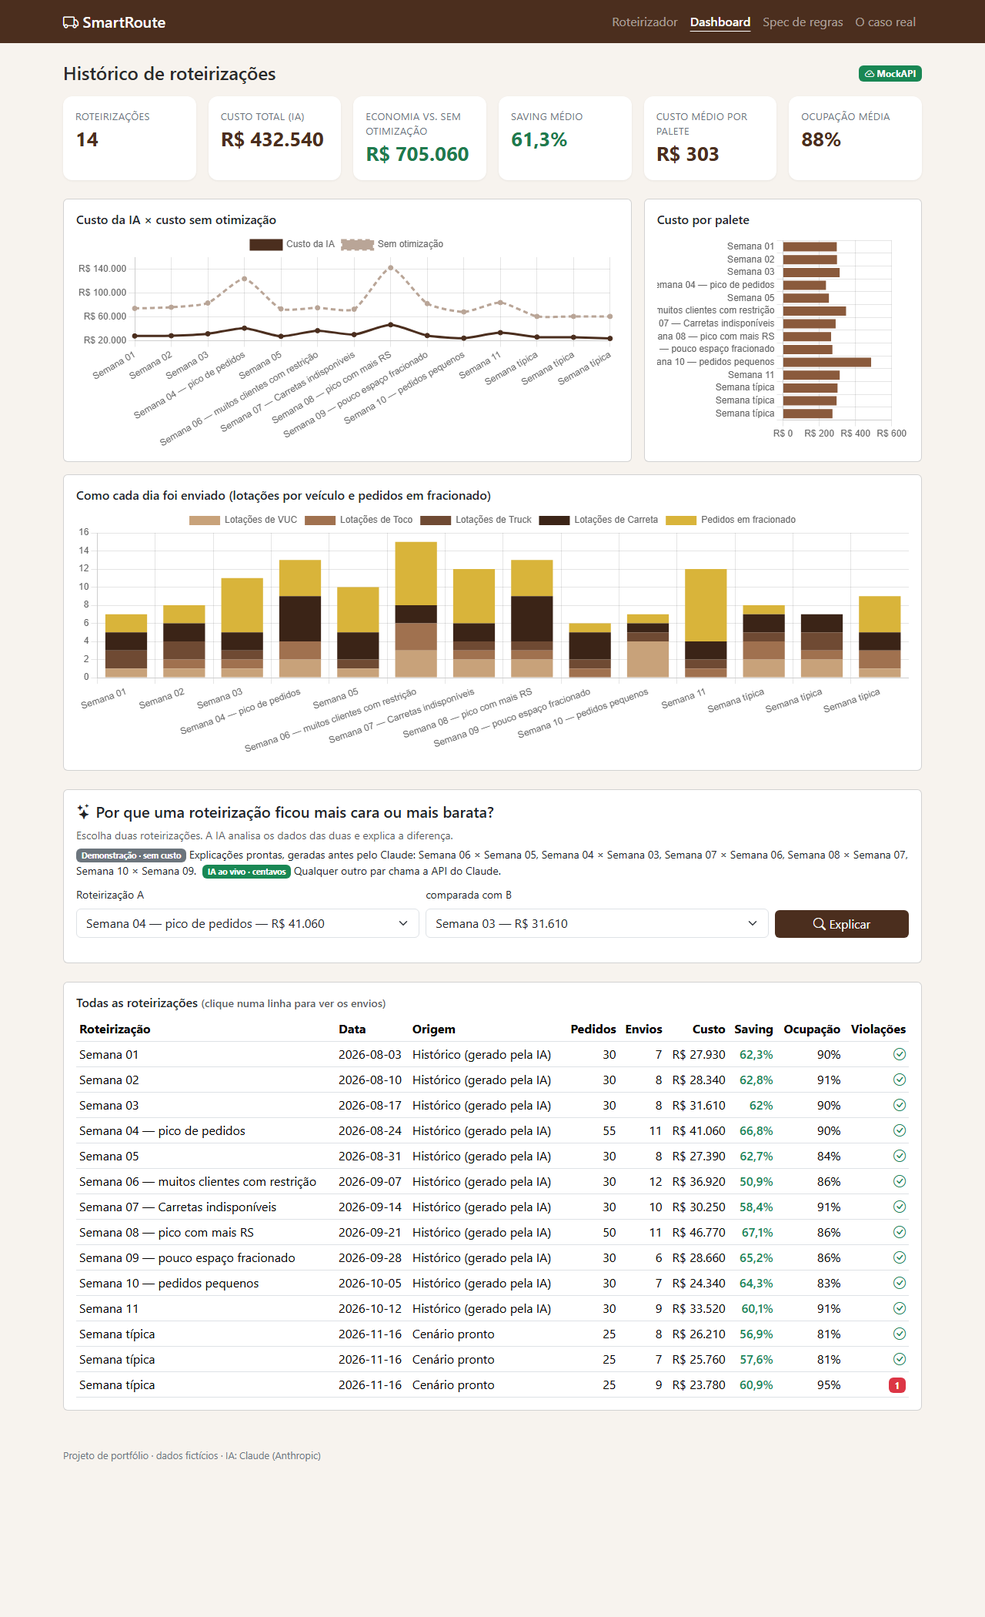
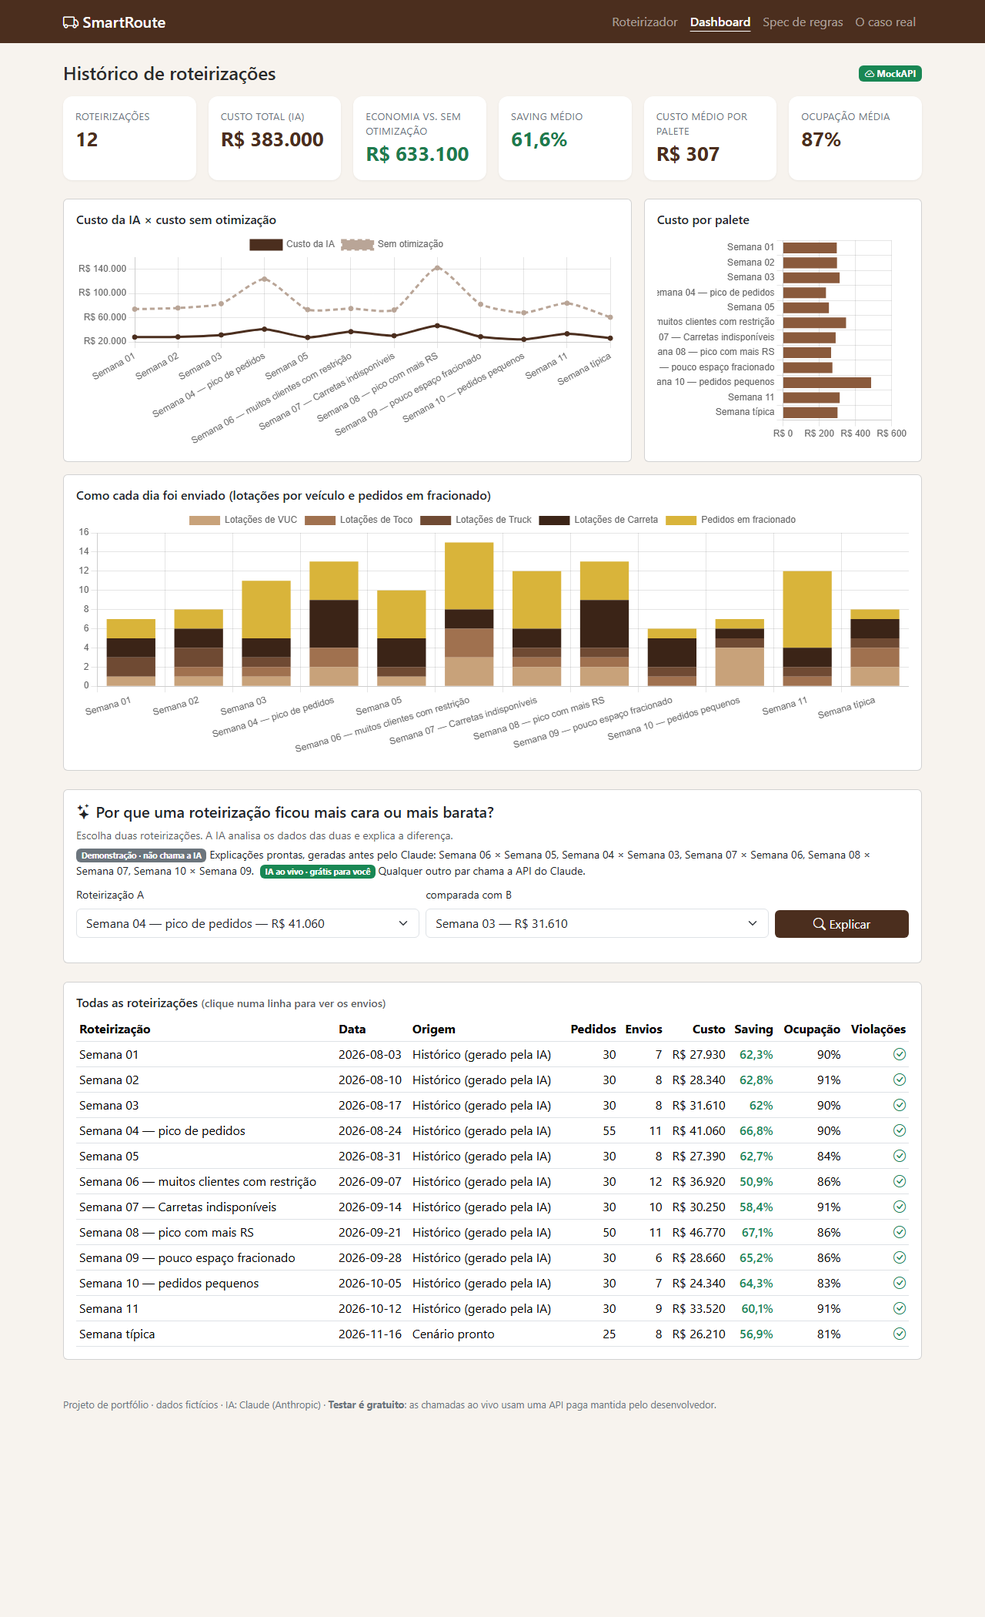
docs: deixar claro que testar é gratuito; a API paga do Claude é mantida pelo desenvolvedor

diff --git a/public/index.html b/public/index.html
@@ -34,17 +34,18 @@
 
     <div class="row g-3 mb-4">
       <div class="col-md-6"><div class="modo-card demo h-100">
-        <div class="fw-semibold"><i class="bi bi-collection-play"></i> Cenários prontos — demonstração gratuita</div>
-        <div class="small">Mostram resultados que o Claude gerou anteriormente. <strong>Não chamam a API do Claude e não gastam créditos.</strong> Resposta instantânea.</div>
+        <div class="fw-semibold"><i class="bi bi-collection-play"></i> Cenários prontos — demonstração</div>
+        <div class="small">Mostram resultados que o Claude gerou anteriormente. <strong>Não chamam a API do Claude.</strong> Resposta instantânea.</div>
       </div></div>
       <div class="col-md-6"><div class="modo-card ao-vivo h-100">
         <div class="fw-semibold"><i class="bi bi-broadcast"></i> Seu CSV — IA ao vivo</div>
-        <div class="small">Faz uma <strong>chamada real à API do Claude</strong> (custa alguns centavos), gera um resultado novo e o salva no histórico do dashboard.</div>
+        <div class="small">Faz uma <strong>chamada real à API do Claude</strong>, gera um resultado novo e o salva no histórico do dashboard.</div>
       </div></div>
+      <div class="col-12"><div class="small text-muted"><i class="bi bi-gift"></i> <strong>Usar o SmartRoute é sempre gratuito para quem está testando</strong>, nos dois modos. As chamadas ao vivo usam uma API do Claude paga, mantida pelo desenvolvedor para deixar o projeto ativo; por isso existe um limite de uso por visitante.</div></div>
     </div>
 
     <h2 class="h5">1. Escolha os pedidos do dia</h2>
-    <h3 class="h6 text-muted"><span class="badge text-bg-secondary">Demonstração · sem custo</span> Cenários prontos</h3>
+    <h3 class="h6 text-muted"><span class="badge text-bg-secondary">Demonstração · não chama a IA</span> Cenários prontos</h3>
     <div class="row g-3 mb-3" id="cenarios">
       <div class="col-md-4"><div class="card card-cenario h-100" data-cenario="cenario-1"><div class="card-body">
         <h3 class="h6"><i class="bi bi-calendar-week"></i> Semana típica</h3>
@@ -61,7 +62,7 @@
     </div>
 
     <div class="card mb-4"><div class="card-body">
-      <label for="arquivo" class="form-label fw-semibold"><span class="badge text-bg-success">IA ao vivo · alguns centavos</span>
+      <label for="arquivo" class="form-label fw-semibold"><span class="badge text-bg-success">IA ao vivo · grátis para você</span>
         <i class="bi bi-filetype-csv"></i> …ou envie seu próprio CSV (até 60 pedidos)</label>
       <div class="d-flex flex-wrap gap-2 align-items-center">
         <input class="form-control w-auto" type="file" id="arquivo" accept=".csv,text/csv">
@@ -81,7 +82,7 @@
     <section id="resultado" class="d-none"></section>
   </main>
 
-  <footer class="container pb-4">Projeto de portfólio · dados fictícios · IA: Claude (Anthropic)</footer>
+  <footer class="container pb-4">Projeto de portfólio · dados fictícios · IA: Claude (Anthropic) · <strong>Testar é gratuito</strong>: as chamadas ao vivo usam uma API paga mantida pelo desenvolvedor.</footer>
   <script src="https://cdn.jsdelivr.net/npm/bootstrap@5.3.3/dist/js/bootstrap.bundle.min.js"></script>
   <script type="module" src="/js/app.js"></script>
 </body>

diff --git a/public/js/app.js b/public/js/app.js
@@ -15,12 +15,12 @@ function selecionarCenario(card) {
   document.getElementById("csv-erros").innerHTML = "";
   document.getElementById("csv-previa").innerHTML = "";
   btn.disabled = false;
-  status.innerHTML = `<strong>${esc(card.querySelector("h3").textContent.trim())}</strong> · demonstração: mostra o resultado gerado antes pelo Claude, <strong>sem chamar a API e sem custo</strong>.`;
+  status.innerHTML = `<strong>${esc(card.querySelector("h3").textContent.trim())}</strong> · demonstração: mostra o resultado gerado antes pelo Claude, <strong>sem chamar a API</strong>.`;
 }
 
 document.querySelectorAll(".card-cenario").forEach((card) => card.addEventListener("click", () => selecionarCenario(card)));
 
-// Link direto para um cenário: /?cenario=cenario-1 já mostra o resultado de demonstração (sem custo).
+// Link direto para um cenário: /?cenario=cenario-1 já mostra o resultado de demonstração (não chama a IA).
 const cenarioDaUrl = new URLSearchParams(location.search).get("cenario");
 const cardDaUrl = document.querySelector(`.card-cenario[data-cenario="${CSS.escape(cenarioDaUrl ?? "")}"]`);
 if (cardDaUrl) {
@@ -49,7 +49,7 @@ document.getElementById("arquivo").addEventListener("change", async (ev) => {
 
   entrada = erros.length || !pedidos.length ? null : { pedidos, rotulo: arquivo.name.replace(/\.csv$/i, "") };
   btn.disabled = !entrada;
-  status.innerHTML = entrada ? `<strong>${esc(arquivo.name)}</strong> · IA ao vivo: ao clicar, <strong>chama a API do Claude</strong> (alguns centavos) e salva no histórico.` : "O CSV tem erros.";
+  status.innerHTML = entrada ? `<strong>${esc(arquivo.name)}</strong> · IA ao vivo: ao clicar, <strong>chama a API do Claude</strong> e salva no histórico. Gratuito para você.` : "O CSV tem erros.";
 });
 
 btn.addEventListener("click", async () => {
@@ -83,7 +83,7 @@ btn.addEventListener("click", async () => {
 function mostrarResultado({ modo, registro: r, salvo, aviso }) {
   const selo = modo === "ao_vivo"
     ? `<span class="badge text-bg-success selo"><i class="bi bi-broadcast"></i> IA ao vivo · chamada real ao Claude</span>`
-    : `<span class="badge text-bg-secondary selo"><i class="bi bi-collection-play"></i> Demonstração · resultado gerado antes pelo Claude · sem custo</span>`;
+    : `<span class="badge text-bg-secondary selo"><i class="bi bi-collection-play"></i> Demonstração · resultado gerado antes pelo Claude</span>`;
   const avisos = [
     aviso ? `<div class="alert alert-info py-2 small mb-2">${esc(aviso)}</div>` : "",
     modo === "ao_vivo" && !salvo ? `<div class="alert alert-warning py-2 small mb-2">O histórico está indisponível: esta roteirização não foi salva no dashboard.</div>` : "",

diff --git a/public/caso.html b/public/caso.html
@@ -66,7 +66,7 @@
         <li>Reproduz a <strong>forma de trabalhar</strong> do agente: uma <a href="/spec.html">spec de regras</a> guia a IA (Claude), que compara transportadoras, veículos e modalidades.</li>
         <li>Acrescenta um <strong>validador em código</strong> que confere cada regra depois da resposta da IA, porque a IA não deve ser aceita sem verificação.</li>
         <li>Guarda cada roteirização num histórico (MockAPI) e tem um <a href="/dashboard.html">dashboard</a> onde a IA explica por que um dia custou mais que outro.</li>
-        <li><strong>Dois modos:</strong> os 3 cenários prontos são uma <strong>demonstração sem custo</strong> (resultados que o Claude gerou antes; não chamam a API). <strong>Enviar um CSV</strong> faz uma <strong>chamada real ao Claude</strong> (alguns centavos) e gera um resultado novo, ao vivo.</li>
+        <li><strong>Dois modos:</strong> os 3 cenários prontos são uma <strong>demonstração</strong> (resultados que o Claude gerou antes; não chamam a API). <strong>Enviar um CSV</strong> faz uma <strong>chamada real ao Claude</strong> e gera um resultado novo, ao vivo. Nos dois casos, <strong>testar é gratuito</strong>: a API paga é mantida pelo desenvolvedor.</li>
         <li>Construída com HTML, Bootstrap, JavaScript, funções serverless na Vercel e a API do Claude, com apoio de IA no desenvolvimento.</li>
       </ul>
     </div></div>
@@ -74,7 +74,7 @@
     <p class="small text-muted"><i class="bi bi-lock"></i> Valores reais não divulgados: os resultados acima estão em percentuais.
       Transportadoras, clientes, preços e regras desta demo são fictícios.</p>
   </main>
-  <footer class="container pb-4">Projeto de portfólio · dados fictícios · IA: Claude (Anthropic)</footer>
+  <footer class="container pb-4">Projeto de portfólio · dados fictícios · IA: Claude (Anthropic) · <strong>Testar é gratuito</strong>: as chamadas ao vivo usam uma API paga mantida pelo desenvolvedor.</footer>
   <script src="https://cdn.jsdelivr.net/npm/bootstrap@5.3.3/dist/js/bootstrap.bundle.min.js"></script>
 </body>
 </html>

diff --git a/public/js/dashboard.js b/public/js/dashboard.js
@@ -121,15 +121,15 @@ async function carregarProntas() {
   const nome = (id) => esc(registros.find((r) => String(r.id) === id)?.rotulo.split(" — ")[0] ?? id);
   const pares = [...prontas].map((k) => k.split("|")).filter(([x, y]) => nome(x) !== x || nome(y) !== y);
   document.getElementById("info-prontas").innerHTML = pares.length
-    ? `<span class="badge text-bg-secondary">Demonstração · sem custo</span> Explicações prontas, geradas antes pelo Claude: ${pares.map(([x, y]) => `${nome(x)} × ${nome(y)}`).join(", ")}.
-       <span class="badge text-bg-success ms-1">IA ao vivo · centavos</span> Qualquer outro par chama a API do Claude.`
+    ? `<span class="badge text-bg-secondary">Demonstração · não chama a IA</span> Explicações prontas, geradas antes pelo Claude: ${pares.map(([x, y]) => `${nome(x)} × ${nome(y)}`).join(", ")}.
+       <span class="badge text-bg-success ms-1">IA ao vivo · grátis para você</span> Qualquer outro par chama a API do Claude.`
     : "";
   marcarCusto();
 }
 
 function marcarCusto() {
   const chave = `${document.getElementById("sel-a").value}|${document.getElementById("sel-b").value}`;
-  document.getElementById("btn-comparar").title = prontas.has(chave) ? "Explicação pronta: sem custo" : "Chama a API do Claude ao vivo (alguns centavos)";
+  document.getElementById("btn-comparar").title = prontas.has(chave) ? "Explicação pronta: não chama a IA" : "Chama a API do Claude ao vivo (gratuito para você)";
 }
 
 async function comparar() {
@@ -174,7 +174,7 @@ function explicacao({ modo, explicacao: texto, fatores, aviso }, a, b) {
   ];
   const selo = modo === "ao_vivo"
     ? `<span class="badge text-bg-success selo">IA ao vivo · chamada real ao Claude</span>`
-    : `<span class="badge text-bg-secondary selo">Demonstração · explicação gerada antes pelo Claude · sem custo</span>`;
+    : `<span class="badge text-bg-secondary selo">Demonstração · explicação gerada antes pelo Claude</span>`;
   return `
     <div class="row g-3">
       <div class="col-lg-8">

diff --git a/api/roteirizar.js b/api/roteirizar.js
@@ -1,6 +1,6 @@
 // POST /api/roteirizar
-//  - {cenario: "cenario-1"}  -> DEMONSTRAÇÃO: devolve o resultado gerado antes pelo Claude. Não chama a API, custo zero.
-//  - {pedidos: [...], rotulo?} -> AO VIVO: chama o Claude de verdade (alguns centavos) e salva no histórico.
+//  - {cenario: "cenario-1"}  -> DEMONSTRAÇÃO: devolve o resultado gerado antes pelo Claude. Não chama a API do Claude.
+//  - {pedidos: [...], rotulo?} -> AO VIVO: chama o Claude de verdade e salva no histórico. Gratuito para o visitante: a API paga é do desenvolvedor.
 import { carregarDados } from "../lib/dados.js";
 import { criarCliente, ErroIA } from "../lib/claude.js";
 import { executarRoteirizacao } from "../lib/roteirizacao.js";
@@ -11,7 +11,7 @@ import { sanitizarPedido, sanitizarRotulo } from "../lib/pedidos.js";
 
 const indisponivel = (motivo) =>
   Response.json(
-    { modo: "indisponivel", erro: `${motivo} Os 3 cenários prontos continuam disponíveis (demonstração sem custo).` },
+    { modo: "indisponivel", erro: `${motivo} Os 3 cenários prontos continuam disponíveis (demonstração).` },
     { status: 503 },
   );
 
@@ -20,7 +20,7 @@ export async function POST(request) {
   const corpo = await lerCorpo(request);
   if (!corpo) return Response.json({ erro: "Corpo da requisição inválido." }, { status: 400 });
 
-  // Cenário pronto: sempre o resultado pré-gerado (sem Claude, sem custo, sem gravar no histórico).
+  // Cenário pronto: sempre o resultado pré-gerado (sem chamar o Claude, sem gravar no histórico).
   if (corpo.cenario) {
     if (!/^cenario-[1-3]$/.test(corpo.cenario)) return Response.json({ erro: "Cenário desconhecido." }, { status: 400 });
     const pronto = await lerJson(`resultados/${corpo.cenario}.json`);

diff --git a/api/comparar.js b/api/comparar.js
@@ -1,6 +1,6 @@
 // POST /api/comparar — corpo {idA, idB}: explica por que A custou mais ou menos que B.
-//  - Par com explicação pronta (gerada antes pelo Claude) -> DEMONSTRAÇÃO, sem chamar a API, custo zero.
-//  - Qualquer outro par -> AO VIVO: chama o Claude (cerca de 2 a 5 centavos de dólar).
+//  - Par com explicação pronta (gerada antes pelo Claude) -> DEMONSTRAÇÃO, sem chamar a API do Claude.
+//  - Qualquer outro par -> AO VIVO: chama o Claude. Gratuito para o visitante: a API paga é do desenvolvedor.
 import { criarCliente, compararComClaude, ErroIA } from "../lib/claude.js";
 import { listarRegistros } from "../lib/mockapi.js";
 import { permitir } from "../lib/rateLimit.js";
@@ -8,7 +8,7 @@ import { lerJson, obterHistorico, ipDe, lerCorpo } from "../lib/arquivos.js";
 
 const indisponivel = (motivo) =>
   Response.json(
-    { modo: "indisponivel", erro: `${motivo} Os pares marcados como "explicação pronta" continuam disponíveis sem custo.` },
+    { modo: "indisponivel", erro: `${motivo} Os pares marcados como "explicação pronta" continuam disponíveis.` },
     { status: 503 },
   );
 
@@ -40,7 +40,7 @@ export async function POST(request) {
   }
 }
 
-/** GET /api/comparar — lista os pares com explicação pronta (para a tela marcá-los como "sem custo"). */
+/** GET /api/comparar — lista os pares com explicação pronta (para a tela marcá-los como demonstração). */
 export async function GET() {
   return Response.json({ prontas: Object.keys(await lerJson("comparacoes.json", {})) });
 }

diff --git a/public/spec.html b/public/spec.html
@@ -30,7 +30,7 @@
     </div>
     <article class="card"><div class="card-body p-4" id="spec"><span class="spinner-border spinner-border-sm"></span> Carregando…</div></article>
   </main>
-  <footer class="container pb-4">Projeto de portfólio · dados fictícios · IA: Claude (Anthropic)</footer>
+  <footer class="container pb-4">Projeto de portfólio · dados fictícios · IA: Claude (Anthropic) · <strong>Testar é gratuito</strong>: as chamadas ao vivo usam uma API paga mantida pelo desenvolvedor.</footer>
   <script src="https://cdn.jsdelivr.net/npm/bootstrap@5.3.3/dist/js/bootstrap.bundle.min.js"></script>
   <script src="https://cdn.jsdelivr.net/npm/marked@14.1.2/marked.min.js"></script>
   <script>

diff --git a/public/dashboard.html b/public/dashboard.html
@@ -75,7 +75,7 @@
     <div class="modal-body" id="modal-corpo"></div>
   </div></div></div>
 
-  <footer class="container pb-4">Projeto de portfólio · dados fictícios · IA: Claude (Anthropic)</footer>
+  <footer class="container pb-4">Projeto de portfólio · dados fictícios · IA: Claude (Anthropic) · <strong>Testar é gratuito</strong>: as chamadas ao vivo usam uma API paga mantida pelo desenvolvedor.</footer>
   <script src="https://cdn.jsdelivr.net/npm/bootstrap@5.3.3/dist/js/bootstrap.bundle.min.js"></script>
   <script src="https://cdn.jsdelivr.net/npm/chart.js@4.4.4/dist/chart.umd.min.js"></script>
   <script type="module" src="/js/dashboard.js"></script>

diff --git a/README.md b/README.md
@@ -2,21 +2,23 @@
 
 Um agente de IA (Claude) decide **como enviar cada carga de café pelo menor custo**, comparando transportadoras, tipos de veículo e as modalidades **lotação (FTL)** e **fracionado (LTL)**, seguindo uma **spec de regras de negócio**. Um validador em código confere cada regra depois da resposta da IA.
 
-🔗 **Demo:** https://smartroute-nine.vercel.app · Resultado direto (sem custo): https://smartroute-nine.vercel.app/?cenario=cenario-1 · Dados 100% fictícios.
+🔗 **Demo:** https://smartroute-nine.vercel.app · Resultado direto: https://smartroute-nine.vercel.app/?cenario=cenario-1 · Dados 100% fictícios.
 
 ## Demonstração × IA ao vivo
 
 | | **3 cenários prontos** (demonstração) | **Enviar seu CSV** (IA ao vivo) |
 |---|---|---|
 | Chama a API do Claude? | **Não** | **Sim**, uma chamada real |
-| Gasta créditos? | **Não, custo zero** | Sim, alguns centavos de dólar por roteirização |
+| Quem está testando paga algo? | **Não** | **Não.** A chamada usa a API do Claude, que é paga e mantida pelo desenvolvedor |
 | De onde vem o resultado? | Gerado anteriormente pelo Claude e guardado no projeto ([data/resultados/](data/resultados)) | Gerado na hora para os seus pedidos |
 | Salva no histórico do dashboard? | Não | Sim |
 | Tempo de resposta | Instantâneo | Até cerca de 1 minuto |
 
-No dashboard vale a mesma regra para **"Por que ficou mais caro?"**: os 5 pares com explicação pronta não chamam o Claude; qualquer outro par faz uma chamada real (cerca de 2 a 5 centavos).
+No dashboard vale a mesma regra para **"Por que ficou mais caro?"**: os 5 pares com explicação pronta não chamam o Claude; qualquer outro par faz uma chamada real ao Claude.
 
-**Para compartilhar o projeto, envie só o link da demo.** Quem abrir pode explorar os cenários prontos, o dashboard, a spec e o caso real sem gastar nada; apenas o envio de CSV usa a IA ao vivo.
+> **Testar o SmartRoute é sempre gratuito, nos dois modos.** Os avisos de "IA ao vivo" existem só para deixar claro quando há uma chamada real ao Claude: essas chamadas usam uma API paga, mantida pelo desenvolvedor para manter o projeto ativo. Por isso há um limite de uso por visitante (5 chamadas ao vivo a cada 10 minutos) e um teto mensal de gasto; se ele for atingido, o envio de CSV fica temporariamente indisponível e todo o resto continua funcionando.
+
+**Para compartilhar o projeto, envie só o link da demo.** Quem abrir pode explorar os cenários prontos, o dashboard, a spec e o caso real, e testar a IA ao vivo enviando um CSV, sem pagar nada.
 
 | Roteirizador | Dashboard |
 |---|---|
@@ -34,8 +36,8 @@ O projeto real é confidencial. Esta demo recria a **forma de trabalhar** com da
 
 | Página | O que mostra |
 |---|---|
-| **Roteirizador** | Escolha um cenário pronto (demonstração, sem custo) ou envie um CSV de até 60 pedidos (IA ao vivo). A IA devolve os envios com a justificativa de cada escolha; o validador marca qualquer regra violada; a tela mostra o saving em relação a enviar sem otimização. |
-| **Dashboard** | Histórico de roteirizações (MockAPI), indicadores, gráficos e o recurso **"Por que ficou mais caro?"**: a IA compara duas roteirizações e explica a diferença (pares prontos sem custo; outros pares ao vivo). |
+| **Roteirizador** | Escolha um cenário pronto (demonstração) ou envie um CSV de até 60 pedidos (IA ao vivo). A IA devolve os envios com a justificativa de cada escolha; o validador marca qualquer regra violada; a tela mostra o saving em relação a enviar sem otimização. |
+| **Dashboard** | Histórico de roteirizações (MockAPI), indicadores, gráficos e o recurso **"Por que ficou mais caro?"**: a IA compara duas roteirizações e explica a diferença (pares prontos em demonstração; outros pares ao vivo). |
 | **Spec de regras** | A spec que vai para a IA: objetivo, dados, modalidades, regras R1–R10, preferências e formato da resposta. |
 | **O caso real** | O contexto do projeto na JDE Peet's (só percentuais). |
 
@@ -46,17 +48,17 @@ Navegador (HTML + Bootstrap + JavaScript + Chart.js)
         │
         ▼
 Funções serverless na Vercel (JavaScript)
-   ├── POST /api/roteirizar  → cenário pronto: resultado guardado (sem Claude, sem custo)
+   ├── POST /api/roteirizar  → cenário pronto: resultado guardado (não chama o Claude)
    │                           CSV: Claude (spec + dados) → validador R1–R10 → saving → salva no MockAPI
    ├── GET  /api/historico   → MockAPI (se falhar: cópia local)
-   ├── POST /api/comparar    → par pronto: explicação guardada (sem custo) · outro par: Claude ao vivo
+   ├── POST /api/comparar    → par pronto: explicação guardada · outro par: Claude ao vivo
    └── GET  /api/spec        → a spec de regras
 ```
 
 - **A spec é a peça central** ([spec/regras.md](spec/regras.md)): ela é enviada ao Claude em toda roteirização.
 - **A IA não é aceita sem conferência:** custos são recalculados a partir das tabelas das transportadoras e cada regra é verificada em código ([lib/validador.js](lib/validador.js)).
 - **Saída estruturada:** o Claude responde num JSON Schema fixo ([lib/claude.js](lib/claude.js)).
-- **A demo nunca quebra:** os cenários prontos não dependem da API do Claude. Se a IA ao vivo estiver indisponível (sem chave, limite de 5 chamadas a cada 10 minutos por visitante, créditos esgotados ou erro), só o envio de CSV fica indisponível, com um aviso. Se o MockAPI cair, o dashboard usa a cópia local.
+- **A demo nunca quebra:** os cenários prontos não dependem da API do Claude. Se a IA ao vivo estiver indisponível (sem chave, limite de 5 chamadas a cada 10 minutos por visitante, teto de gasto do desenvolvedor atingido ou erro), só o envio de CSV fica indisponível, com um aviso. Se o MockAPI cair, o dashboard usa a cópia local.
 - **Segredos só no servidor:** o navegador nunca chama o Claude nem o MockAPI diretamente.
 
 ## Rodar localmente
@@ -74,7 +76,7 @@ Scripts de dados:
 
 ```bash
 node scripts/gerar-cenarios.js                          # cenários e semanas fictícias (determinístico)
-node --env-file=.env scripts/gerar-historico.js         # resultados, histórico e comparações com o Claude (gasta créditos: alguns dólares)
+node --env-file=.env scripts/gerar-historico.js         # resultados, histórico e comparações com o Claude (usa a API paga: alguns dólares para quem roda)
 ```
 
 ## Stack

diff --git a/docs/specs/2026-11-17-roteirizador-fretes-design.md b/docs/specs/2026-11-17-roteirizador-fretes-design.md
@@ -98,9 +98,10 @@ O problema real era **escolher como enviar cada carga de café pelo menor preço
 
 ### A demo nunca quebra
 - **Revisado em 17/11/2026 (pedido de Frederico): dois modos explícitos.**
-  - **3 cenários prontos = demonstração:** sempre devolvem o resultado gerado antes pelo Claude (`data/resultados/`). **Não chamam a API, não gastam créditos, não gravam no histórico.** O link `/?cenario=cenario-N` também é gratuito.
-  - **Envio de CSV = IA ao vivo:** chamada real ao Claude (alguns centavos), resultado novo, salvo no MockAPI. Sem chave, limite atingido ou erro da IA → aviso de indisponibilidade só para o CSV.
-  - **Comparação no dashboard:** os pares com explicação pronta (`data/comparacoes.json`, mesma ordem A×B) são gratuitos; os demais chamam o Claude ao vivo.
+  - **3 cenários prontos = demonstração:** sempre devolvem o resultado gerado antes pelo Claude (`data/resultados/`). **Não chamam a API do Claude e não gravam no histórico.** O link `/?cenario=cenario-N` também não chama a API.
+  - **Envio de CSV = IA ao vivo:** chamada real ao Claude, resultado novo, salvo no MockAPI. Sem chave, limite atingido ou erro da IA → aviso de indisponibilidade só para o CSV.
+  - **Comparação no dashboard:** os pares com explicação pronta (`data/comparacoes.json`, mesma ordem A×B) não chamam a API; os demais chamam o Claude ao vivo.
+  - **Quem testa nunca paga nada.** A API do Claude é paga e mantida pelo desenvolvedor (limite por visitante + teto mensal no Console). Os textos do site e do README dizem "grátis para você" nas ações ao vivo, para não sugerir cobrança do visitante.
 - **MockAPI fora do ar:** o dashboard usa `data/historico.json`, e a roteirização funciona mesmo sem salvar.
 - **Limite por IP** nas funções que chamam o Claude, além do limite de gasto mensal no Console.
 
